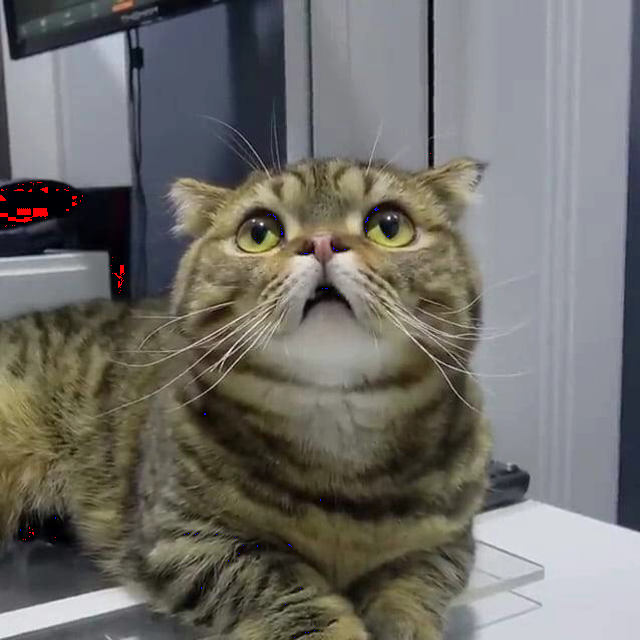
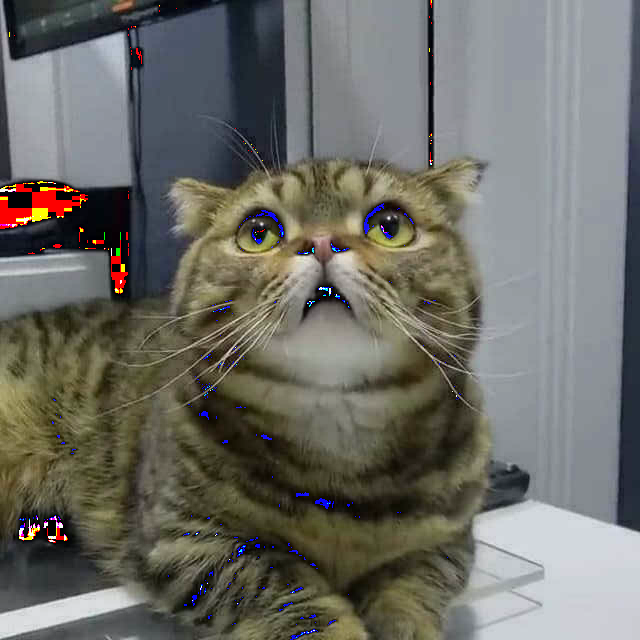
implement DPCM encode/decode and RLE encode

diff --git a/dct.cpp b/dct.cpp
@@ -5,8 +5,13 @@
 #include <cstdlib>
 #include <iostream>
 #include <ctime>
-
-
+#include <vector>
+class RLE_DATA
+{
+public:
+    unsigned consecutive_zero = 0;
+    unsigned value;
+};
 int main(int argc, char** argv) {
     assert(argc == 3);
     clock_t start, end;
@@ -108,13 +113,125 @@ int main(int argc, char** argv) {
 
             for(int u = width_iter; u < width_iter + 8; u++) {
                 for(int v = height_iter; v < height_iter + 8; v++) {
-                    dct_img_HOST[channels * (width * v + u) + 0] = abs(round(dct_img_HOST[channels * (width * v + u) + 0] / luminance[u % 8][v % 8]));
-                    dct_img_HOST[channels * (width * v + u) + 1] = abs(round(dct_img_HOST[channels * (width * v + u) + 1] / chrominance[u % 8][v % 8]));
-                    dct_img_HOST[channels * (width * v + u) + 2] = abs(round(dct_img_HOST[channels * (width * v + u) + 2] / chrominance[u % 8][v % 8]));
+                    dct_img_HOST[channels * (width * v + u) + 0] = round(dct_img_HOST[channels * (width * v + u) + 0] / luminance[u % 8][v % 8]);
+                    dct_img_HOST[channels * (width * v + u) + 1] = round(dct_img_HOST[channels * (width * v + u) + 1] / chrominance[u % 8][v % 8]);
+                    dct_img_HOST[channels * (width * v + u) + 2] = round(dct_img_HOST[channels * (width * v + u) + 2] / chrominance[u % 8][v % 8]);
                     // if(width_iter == 0 && height_iter == 0) printf("%f ", dct_img_HOST[channels * (width * v + u) + 0]);
                 }
                 // if(width_iter == 0 && height_iter == 0) printf("\n");
             }
+        }
+    }
+    // DPCM
+    unsigned y_first, cb_first, cr_first;
+    unsigned y_pre, cb_pre, cr_pre;
+    unsigned y_dpcm[width * height / 64], cb_dpcm[width * height / 64], cr_dpcm[width * height / 64];
+    int count = 0;
+    for(int width_iter = 0; width_iter < width; width_iter += 8) {
+        for(int height_iter = 0; height_iter < height; height_iter += 8, count++) {
+            if(width_iter == 0 && height_iter == 0) {
+                y_first = dct_img_HOST[channels * (width * height_iter + width_iter) + 0];
+                cb_first = dct_img_HOST[channels * (width * height_iter + width_iter) + 1];
+                cr_first = dct_img_HOST[channels * (width * height_iter + width_iter) + 2];
+                y_dpcm[count] = dct_img_HOST[channels * (width * height_iter + width_iter) + 0];
+                cb_dpcm[count] = dct_img_HOST[channels * (width * height_iter + width_iter) + 1];
+                cr_dpcm[count] = dct_img_HOST[channels * (width * height_iter + width_iter) + 2];
+            }
+            else{
+                y_dpcm[count] = dct_img_HOST[channels * (width * height_iter + width_iter) + 0] - y_pre;
+                cb_dpcm[count] = dct_img_HOST[channels * (width * height_iter + width_iter) + 1] - cb_pre;
+                cr_dpcm[count] = dct_img_HOST[channels * (width * height_iter + width_iter) + 2] - cr_pre;
+            }
+            y_pre = dct_img_HOST[channels * (width * height_iter + width_iter) + 0];
+            cb_pre = dct_img_HOST[channels * (width * height_iter + width_iter) + 1];
+            cr_pre = dct_img_HOST[channels * (width * height_iter + width_iter) + 2];
+        }
+    }
+    // RLE
+    int total_bits = width * height * channels * 8;
+    int accu_bits = 0;
+    double compression_ratio;
+    int zig_zag[64] =
+    {
+        0, 1, 8, 16, 9, 2, 3, 10,
+        17, 24, 32, 25, 18, 11, 4, 
+        5, 12, 19, 26, 33, 40, 48, 
+        41, 34, 27, 20, 13, 6, 7,
+        14, 24, 28, 35, 42, 49, 56, 
+        57, 50, 43, 36, 29, 22, 15,
+        23, 30, 37, 44, 51, 58, 59,
+        52, 45, 38, 31, 39, 46, 53,
+        60, 61, 54, 47, 55, 62, 63 
+    };
+    for(int width_iter = 0; width_iter < width; width_iter += 8) {
+        for(int height_iter = 0; height_iter < height; height_iter += 8) {
+            std::vector<RLE_DATA> y_RLE;
+            std::vector<RLE_DATA> cb_RLE;
+            std::vector<RLE_DATA> cr_RLE;
+            RLE_DATA y_tmp, cb_tmp, cr_tmp;
+            for(int iter = 0; iter < 64; iter++) {
+                int u = zig_zag[iter] % 8;
+                int v = zig_zag[iter] / 8;
+                // y
+                if(u % 8 == 0 && v % 8 == 0) {
+                    // do nothing
+                }
+                else if(dct_img_HOST[channels * (width * (v + height_iter) + (u + width_iter)) + 0] == 0) {
+                    y_tmp.consecutive_zero++;
+                }
+                else {
+                    y_tmp.value = dct_img_HOST[channels * (width * (v + height_iter) + (u + width_iter)) + 0];
+                    y_RLE.push_back(y_tmp);
+                    y_tmp.consecutive_zero = 0;
+                }
+                // cb
+                if(u % 8 == 0 && v % 8 == 0) {
+                    // do nothing
+                }
+                else if(dct_img_HOST[channels * (width * (v + height_iter) + (u + width_iter)) + 1] == 0) {
+                    cb_tmp.consecutive_zero++;
+                }
+                else {
+                    cb_tmp.value = dct_img_HOST[channels * (width * (v + height_iter) + (u + width_iter)) + 1];
+                    cb_RLE.push_back(cb_tmp);
+                    cb_tmp.consecutive_zero = 0;
+                }
+                // cr
+                if(u % 8 == 0 && v % 8 == 0) {
+                    // do nothing
+                }
+                else if(dct_img_HOST[channels * (width * (v + height_iter) + (u + width_iter)) + 2] == 0) {
+                    cr_tmp.consecutive_zero++;
+                }
+                else {
+                    cr_tmp.value = dct_img_HOST[channels * (width * (v + height_iter) + (u + width_iter)) + 2];
+                    cr_RLE.push_back(cr_tmp);
+                    cr_tmp.consecutive_zero = 0;
+                }
+            }
+            int partial_bits = 16 * (y_RLE.size() + cb_RLE.size() + cr_RLE.size());
+            accu_bits += partial_bits;
+        }
+    }
+    compression_ratio = total_bits / (accu_bits + 8);
+    printf("compression ration = %f\n", compression_ratio);
+    // recover DPCM
+    count = 0;
+    for(int width_iter = 0; width_iter < width; width_iter += 8) {
+        for(int height_iter = 0; height_iter < height; height_iter += 8, count++) {
+            if(width_iter == 0 && height_iter == 0) {
+                dct_img_HOST[channels * (width * height_iter + width_iter) + 0] = y_first;
+                dct_img_HOST[channels * (width * height_iter + width_iter) + 1] = cb_first;
+                dct_img_HOST[channels * (width * height_iter + width_iter) + 2] = cr_first;
+            }
+            else{
+                dct_img_HOST[channels * (width * height_iter + width_iter) + 0] = y_pre + y_dpcm[count];
+                dct_img_HOST[channels * (width * height_iter + width_iter) + 1] = cb_pre + cb_dpcm[count];
+                dct_img_HOST[channels * (width * height_iter + width_iter) + 2] = cr_pre + cr_dpcm[count];
+            }
+            y_pre = dct_img_HOST[channels * (width * height_iter + width_iter) + 0];
+            cb_pre = dct_img_HOST[channels * (width * height_iter + width_iter) + 1];
+            cr_pre = dct_img_HOST[channels * (width * height_iter + width_iter) + 2];
         }
     }
     // dequantize
@@ -123,9 +240,9 @@ int main(int argc, char** argv) {
 
             for(int u = width_iter; u < width_iter + 8; u++) {
                 for(int v = height_iter; v < height_iter + 8; v++) {
-                    dct_img_HOST[channels * (width * v + u) + 0] = abs(round(dct_img_HOST[channels * (width * v + u) + 0] * luminance[u % 8][v % 8]));
-                    dct_img_HOST[channels * (width * v + u) + 1] = abs(round(dct_img_HOST[channels * (width * v + u) + 1] * chrominance[u % 8][v % 8]));
-                    dct_img_HOST[channels * (width * v + u) + 2] = abs(round(dct_img_HOST[channels * (width * v + u) + 2] * chrominance[u % 8][v % 8]));
+                    dct_img_HOST[channels * (width * v + u) + 0] = round(dct_img_HOST[channels * (width * v + u) + 0] * luminance[u % 8][v % 8]);
+                    dct_img_HOST[channels * (width * v + u) + 1] = round(dct_img_HOST[channels * (width * v + u) + 1] * chrominance[u % 8][v % 8]);
+                    dct_img_HOST[channels * (width * v + u) + 2] = round(dct_img_HOST[channels * (width * v + u) + 2] * chrominance[u % 8][v % 8]);
                     // if(width_iter == 0 && height_iter == 0) printf("%f ", dct_img_HOST[channels * (width * v + u) + 0]);
                 }
                 // if(width_iter == 0 && height_iter == 0) printf("\n");
@@ -164,20 +281,20 @@ int main(int argc, char** argv) {
     for(int width_iter = 0; width_iter < width; width_iter++) {
         for(int height_iter = 0; height_iter < height; height_iter++) {
             double Y, Cb, Cr, R, G, B;
-            Y = src_img_HOST[channels * (width * height_iter + width_iter) + 0];
-            Cb = src_img_HOST[channels * (width * height_iter + width_iter) + 1];
-            Cr = src_img_HOST[channels * (width * height_iter + width_iter) + 2];
+            Y = dst_img_HOST[channels * (width * height_iter + width_iter) + 0];
+            Cb = dst_img_HOST[channels * (width * height_iter + width_iter) + 1];
+            Cr = dst_img_HOST[channels * (width * height_iter + width_iter) + 2];
             R = 1.164 * (Y - 16) + 1.596 * (Cr - 128);
             G = 1.164 * (Y - 16) - 0.392 * (Cb - 128) - 0.813 * (Cr - 128);
             B = 1.164 * (Y - 16) + 2.017 * (Cb - 128);
-            src_img_HOST[channels * (width * height_iter + width_iter) + 0] = R;
-            src_img_HOST[channels * (width * height_iter + width_iter) + 1] = G;
-            src_img_HOST[channels * (width * height_iter + width_iter) + 2] = B;
+            dst_img_HOST[channels * (width * height_iter + width_iter) + 0] = R;
+            dst_img_HOST[channels * (width * height_iter + width_iter) + 1] = G;
+            dst_img_HOST[channels * (width * height_iter + width_iter) + 2] = B;
         }
     }
 
     
-    write_png(argv[2], src_img_HOST, height, width, channels);
+    write_png(argv[2], dst_img_HOST, height, width, channels);
     end = clock();
     printf("%f\n", ((double)(end - start) / CLOCKS_PER_SEC));
     return 0;
